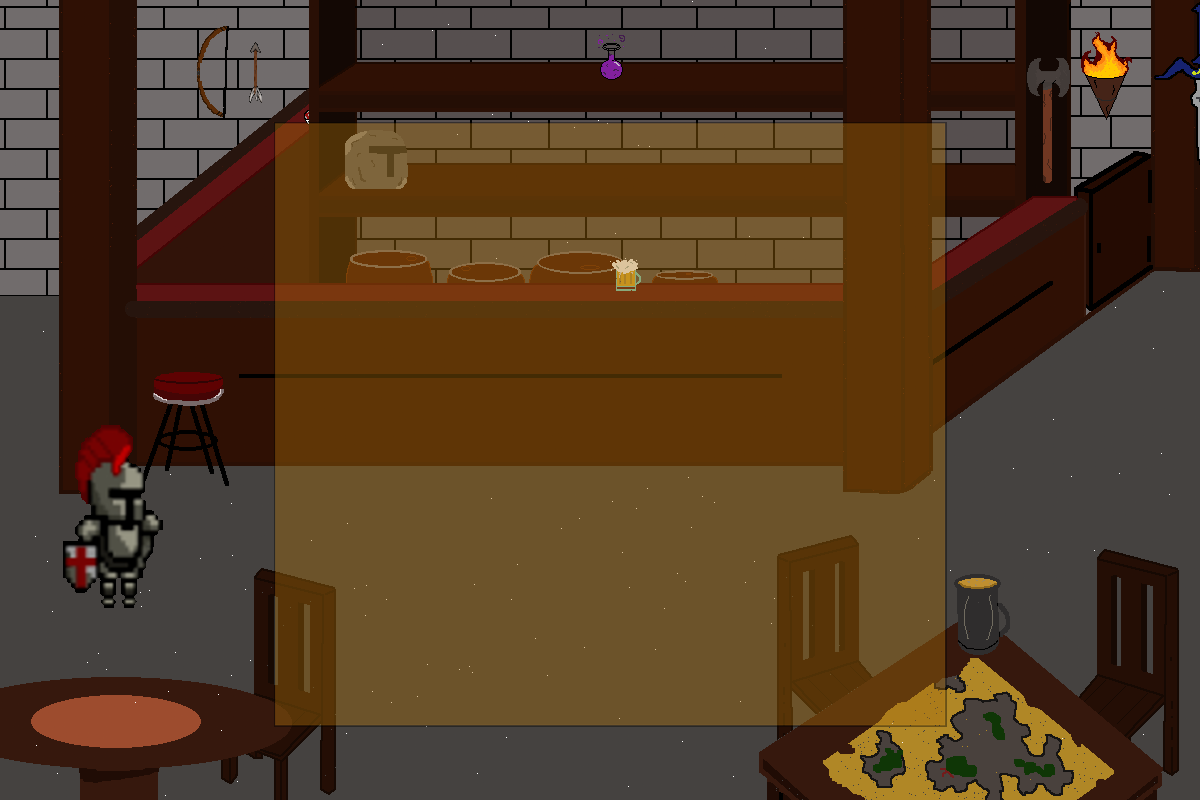
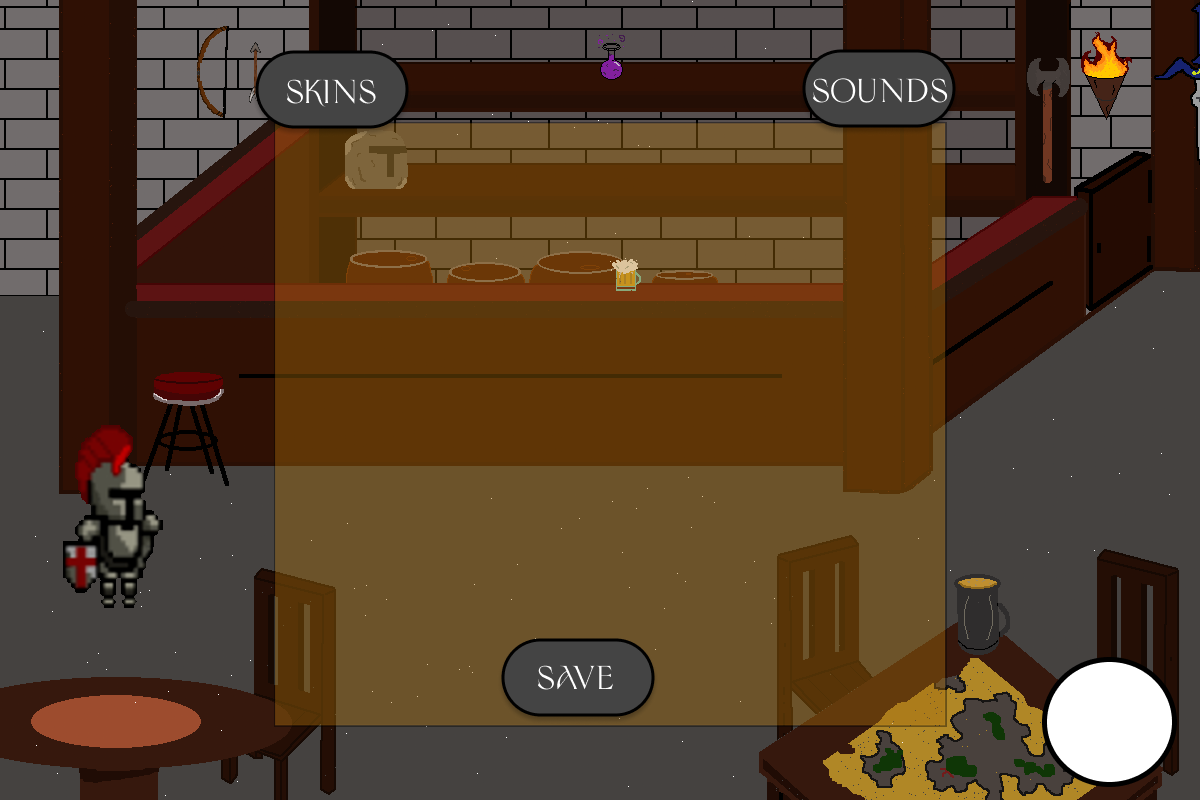
Redisign for the option menu

diff --git a/src/main/java/com/fantastic_knight/options/OptionsMenu.java b/src/main/java/com/fantastic_knight/options/OptionsMenu.java
@@ -29,6 +29,7 @@ public class OptionsMenu extends Pane {
     public static ToggleButton nextPlayer;
     public static ImageView imageViewPlayer;
     public static ImageView imageSound;
+    public static ImageView imageSoundOther;
     public static List<Image> listSkins;
     public static int indexSkin;
 
@@ -56,17 +57,17 @@ public class OptionsMenu extends Pane {
         paneOptionsMenu.setPrefSize(1200, 800);
 
         // Button chose the skin
-        buttonSkin = new ButtonLevel("SKINS",275,75);
+        buttonSkin = new ButtonLevel("SKINS",270,60);
         buttonSkin.setOnAction(e -> chooseSkinPanel());
-        buttonSkin.setPrefSize(150, 50);
-        buttonSkin.setStyle(getStyle() + "-fx-background-image: url('"+ Game.class.getResource("icons/button.png")+"')");
+        buttonSkin.setPrefSize(125, 50);
+        buttonSkin.setStyle(getStyle() + "-fx-background-image: url('"+ Game.class.getResource("icons/button.png")+"'); -fx-opacity: 0.0");
         paneOptionsMenu.getChildren().add(buttonSkin);
 
         // Button modifies the sounds
-        buttonSounds = new ButtonLevel("SOUNDS",775,75);
+        buttonSounds = new ButtonLevel("SOUNDS",820,65);
         buttonSounds.setOnAction(e -> chooseSoundPanel());
-        buttonSounds.setPrefSize(150,50);
-        buttonSounds.setStyle(getStyle() + "-fx-background-image: url('"+ Game.class.getResource("icons/button.png")+"')");
+        buttonSounds.setPrefSize(125,50);
+        buttonSounds.setStyle(getStyle() + "-fx-background-image: url('"+ Game.class.getResource("icons/button.png")+"'); -fx-opacity: 0.0");
         paneOptionsMenu.getChildren().add(buttonSounds);
 
         // Button return to menu
@@ -151,10 +152,10 @@ public class OptionsMenu extends Pane {
         nextPlayer.setOnAction(e -> nextPlayer(imageViewPlayer, listSkins));
 
         // Button to save
-        Button saveButton = new ButtonLevel("SAVE",325,500);
+        Button saveButton = new ButtonLevel("SAVE",320,475);
         saveButton.setOnAction(e -> settingNamePlayer());
-        saveButton.setPrefSize(150,50);
-        saveButton.setStyle(getStyle() + "-fx-background-image: url('"+ Game.class.getResource("icons/button.png")+"')");
+        saveButton.setPrefSize(120,50);
+        saveButton.setStyle(getStyle() + "-fx-background-image: url('"+ Game.class.getResource("icons/button.png")+"'); -fx-opacity: 0.0");
 
         changeSkin.getChildren().addAll(imageViewPlayer,previousPlayer,nextPlayer,saveButton);
     }
@@ -196,6 +197,12 @@ public class OptionsMenu extends Pane {
             chooseIconSound(slider.getValue());
         });
 
+        // Image sound
+        imageSoundOther = new ImageView(new Image("file:src/main/resources/com/fantastic_knight/icons/sound.png"));
+        imageSoundOther.setFitHeight(imageSoundOther.getImage().getHeight()*0.15);
+        imageSoundOther.setFitWidth(imageSoundOther.getImage().getWidth()*0.15);
+        imageSoundOther.setLayoutX(100); imageSoundOther.setLayoutY(335);
+
         // Vertical slider for sounds
         Slider soundsSlider = new Slider(0, 100, 50);
         soundsSlider.setLayoutX(200); soundsSlider.setLayoutY(350);
@@ -205,18 +212,18 @@ public class OptionsMenu extends Pane {
         soundsSlider.setBlockIncrement(0.5f);
         soundsSlider.setValueChanging(true);
         soundsSlider.setOnMouseDragged(e -> {
-            modifySounds.getChildren().remove(imageSound);
+            modifySounds.getChildren().remove(imageSoundOther);
             chooseIconSound(soundsSlider.getValue());
         });
 
         // Button to save
-        Button saveButton = new ButtonLevel("SAVE",325,500);
+        Button saveButton = new ButtonLevel("SAVE",320,485);
         saveButton.setOnAction(e -> saveSoundProperties(slider.getValue(),soundsSlider.getValue()));
-        saveButton.setPrefSize(150,50);
-        saveButton.setStyle(getStyle() + "-fx-background-image: url('"+ Game.class.getResource("icons/button.png")+"')");
+        saveButton.setPrefSize(120,50);
+        saveButton.setStyle(getStyle() + "-fx-background-image: url('"+ Game.class.getResource("icons/button.png")+"'); -fx-opacity: 0.0");
 
         // Adding all the elements
-        modifySounds.getChildren().addAll(backgroundMusic,environnementSounds,slider,soundsSlider,imageSound,saveButton);
+        modifySounds.getChildren().addAll(backgroundMusic,environnementSounds,slider,imageSound,soundsSlider,imageSoundOther,saveButton);
         paneOptionsMenu.getChildren().addAll(modifySounds);
     }
 

diff --git a/src/main/java/com/fantastic_knight/Game.java b/src/main/java/com/fantastic_knight/Game.java
@@ -27,18 +27,18 @@ public class Game extends Application {
     TODO
      ***** BUGS *****
      o Bug : Halo (on se prend la flèche)
-     o Bug : épée (elle sort desfois comme ça)
+     o Bug : épée (elle sort des fois comme ça)
      o Bug : level 3 (message pas au niveau du perso)
      o Bug : Click sur le classement réduit tout
      *
      ***** A FAIRE *****
-     o Ajouter le chrono pour pouvoir le voir
      o Faire un .jar du projet
      o Classement à réagencer
      x Options à réagencer
      x Enlever le bouton roue dentée inutile
      *
      ***** OPTIONNEL *****
+     o Ajouter le chrono pour pouvoir le voir
      o Système de rang pour débloquer des niveaux et des skins
      o Améliorer l'IA de l'ennemi
      o Ajouter la fausse plateforme et la pierre
